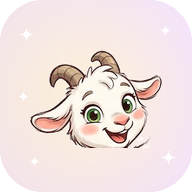
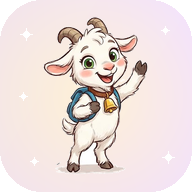
Recadre l'icône pour montrer toute la Chèvra du dessin
L'icône d'accueil, les favicons, l'icône Apple et les icônes PWA
(y compris maskable, zone sûre d'environ 80 %) montrent désormais
la chèvre entière — cornes, oreilles, sabot levé et sabots — centrée
avec une petite marge, sur le même fond pastel. La mascotte en jeu
reste le SVG animé. Cache des icônes v7.

Changed region(s): [[0.1562, 0.0938, 0.8438, 0.9062], [0.75, 0.7188, 0.7812, 0.75], [0.2812, 0.8438, 0.3125, 0.875]]

diff --git a/index.html b/index.html
@@ -9,10 +9,10 @@
 <meta name="mobile-web-app-capable" content="yes">
 <meta name="apple-mobile-web-app-title" content="Chèvra">
 <title>Chèvra – Révisions CM2</title>
-<link rel="icon" type="image/png" sizes="32x32" href="icons/favicon-32.png?v=5">
-<link rel="icon" type="image/png" sizes="64x64" href="icons/favicon-64.png?v=5">
-<link rel="icon" type="image/png" sizes="192x192" href="icons/icon-192.png?v=5">
-<link rel="apple-touch-icon" sizes="180x180" href="icons/apple-touch-icon.png?v=5">
+<link rel="icon" type="image/png" sizes="32x32" href="icons/favicon-32.png?v=7">
+<link rel="icon" type="image/png" sizes="64x64" href="icons/favicon-64.png?v=7">
+<link rel="icon" type="image/png" sizes="192x192" href="icons/icon-192.png?v=7">
+<link rel="apple-touch-icon" sizes="180x180" href="icons/apple-touch-icon.png?v=7">
 <link rel="manifest" href="manifest.webmanifest">
 <style>
 /* =========================================================
@@ -560,13 +560,13 @@ body.welcome main{padding:24px calc(16px + var(--safe-r)) calc(32px + var(--safe
 -->
 <div class="app" id="app">
   <header class="topbar">
-    <button class="brand" aria-label="Chèvra, retour à la carte"><img class="logo" src="icons/icon-192.png?v=5" width="48" height="48" alt=""><span>Chèvra</span></button>
+    <button class="brand" aria-label="Chèvra, retour à la carte"><img class="logo" src="icons/icon-192.png?v=7" width="48" height="48" alt=""><span>Chèvra</span></button>
     <div class="pills" id="pills"></div>
     <button class="iconbtn musicbtn" aria-pressed="false" aria-label="Activer la musique">🎵</button>
     <button class="iconbtn soundbtn" aria-pressed="false" aria-label="Couper le son">🔊</button>
   </header>
   <aside class="sidebar" aria-label="Menu">
-    <button class="brand" aria-label="Chèvra, retour à la carte"><img class="logo" src="icons/icon-192.png?v=5" width="48" height="48" alt=""><span>Chèvra<br><small class="muted" style="font-size:.8rem;font-weight:600">Révisions CM2</small></span></button>
+    <button class="brand" aria-label="Chèvra, retour à la carte"><img class="logo" src="icons/icon-192.png?v=7" width="48" height="48" alt=""><span>Chèvra<br><small class="muted" style="font-size:.8rem;font-weight:600">Révisions CM2</small></span></button>
     <nav class="mainnav" id="nav" aria-label="Navigation principale"></nav>
     <div class="side-foot">
       <button class="btn musicbtn" aria-pressed="false">🎵 Musique : non</button>

diff --git a/sw.js b/sw.js
@@ -1,12 +1,14 @@
 /* Chèvra – cache des icônes et du manifeste. Incrémenter CACHE pour forcer la mise à jour de l'icône d'accueil.
    La page index.html n'est pas mise en cache, pour que les nouvelles questions arrivent tout de suite. */
-const CACHE = 'chevra-icons-v6';
+const CACHE = 'chevra-icons-v7';
 const ASSETS = [
   './manifest.webmanifest',
   './icons/favicon-32.png',
   './icons/favicon-64.png',
   './icons/icon-192.png',
   './icons/icon-512.png',
+  './icons/icon-192-maskable.png',
+  './icons/icon-512-maskable.png',
   './icons/apple-touch-icon.png'
 ];
 self.addEventListener('install', ev => {
